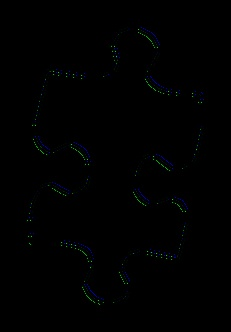
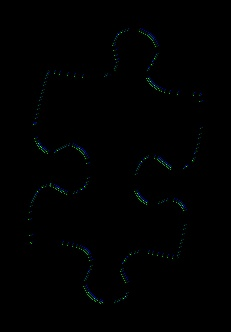
derivative

diff --git a/src/raw_image_reader.py b/src/raw_image_reader.py
@@ -1,10 +1,11 @@
 import pdb
-import cv2
-import numpy as np
-from matplotlib import pyplot as plt
 import os
 import sys
 from itertools import combinations, product
+import cv2
+import numpy as np
+from matplotlib import pyplot as plt
+from scipy import optimize
 
 sys.path.append(os.path.dirname(os.path.dirname(os.path.abspath(__file__))))
 
@@ -29,6 +30,9 @@ def save_res(func):
             if name != '': cv2.imwrite(preprocessed_dir + '%s.jpg'%name, res_img.astype('uint8'))
         return res_img
     return func_wrapper
+    
+def img_to_points(img_input):
+    return np.array(np.where(img_input > 0)).T
 
 def find_contour(img_input, name=''):
     color_min, color_max = 100, 255
@@ -61,6 +65,19 @@ def find_edge(img_input, name=''):
     img_edge = cv2.Canny(img_input, 100, 200)
     return img_edge
 
+@save_res
+def focus(img_input, name=''):
+    img_contour = find_contour(img_input)
+    cropped     = cropper(img_contour)
+    return cropped
+
+@save_res
+def edging(img_input, name=''):
+    img_contour = find_contour(img_input)
+    cropped     = cropper(img_contour)
+    edge        = find_edge(cropped)
+    return edge
+
 def morop(img_input, op, ksize, name):
     kernel = cv2.getStructuringElement(cv2.MORPH_RECT, (ksize, ksize))
     res_img = cv2.morphologyEx(img_input, op, kernel)
@@ -91,6 +108,12 @@ def kclustering_coordinate(img_input):
     # n_cluster is 12 becuase there are 16 significant turning points on a opened and closed piece
     kmeans = KMeans(n_clusters=6, random_state=0).fit(X)
     return map(lambda p: (int(p[0]), int(p[1])), kmeans.cluster_centers_)
+
+@save_res
+def connect_to_img(points, shape, name=''):
+    res_img = np.zeros(shape, dtype="uint8")  
+    cv2.drawContours(res_img, [reorder_counterClockwise(points)], -1, 255, thickness=1)
+    return res_img
 
 @save_res
 def coordinate_to_img(coordinate, shape, name=''):
@@ -158,9 +181,6 @@ def crop_first(img_input, name=''):
     kclustering(cornered, name='crop_first_kclustering')
     clustering_to_ertrame(cornered, name='crop_first_largest')
 
-def img_to_points(img_input):
-    return np.array(np.where(img_input > 0)).T
-
 def reorder_counterClockwise(points):
     return points[counterClockwiseSort(points)]
 
@@ -172,7 +192,7 @@ class Derivative(object):
 class Sobel_Derivative(Derivative):
     @classmethod
     def derivative_func(cls, img, x_order, y_order):
-        return cv2.Sobel(img,cv2.CV_64F, x_order, y_order,ksize=5)
+        return cv2.Sobel(img,cv2.CV_64F, x_order, y_order,ksize=3)
 
     @classmethod
     @save_res
@@ -204,36 +224,94 @@ class Positive_Kernel_Derivative(Derivative):
                 [[0, -3,  3],
                 [0, -10, 10],
                 [0, -3,   3]])
+    first_derivative_kernel_x = first_derivative_kernel
+    first_derivative_kernel_y = first_derivative_kernel.T
 
     second_derivative_kernel = np.array(
                 [[  0, 0,  3, -6,   3],
                 [  0, 0, 10, -20, 10],
                 [  0, 0,  3, -6,   3]])
 
-    @classmethod
     @save_res
     def derivative(cls, img_input, kernel, name=''):
         return cv2.filter2D(img_input, cv2.CV_64F, kernel)
 
-    @classmethod
     def generic_derivative(cls, img, x_order, y_order, name=''):
         assert(x_order == 0 or y_order == 0)
         if x_order == 1:
-            kernel = cls.first_derivative_kernel
+            kernel = cls.first_derivative_kernel_x
             res = cls.derivative(img, kernel, name=name)
         if x_order == 2:
-            kernel = cls.first_derivative_kernel.T
+            kernel = cls.second_derivative_kernel
             res = cls.derivative(img, kernel, name=name)
         if y_order == 1:
-            kernel = cls.second_derivative_kernel
+            kernel = cls.first_derivative_kernel_y.T
             res = cls.derivative(img, kernel, name=name)
         if y_order == 2:
             kernel = cls.second_derivative_kernel.T
             res = cls.derivative(img, kernel, name=name)
         return res
 
-def point_curvature(points):
-    pass
+class Custom_Kernel_Derivative(Positive_Kernel_Derivative):
+    def set_first_kernel(cls, kernel_):
+        cls.first_derivative_kernel = kernel_
+        cls.first_derivative_kernel_x = kernel_
+        cls.first_derivative_kernel_y = kernel_.T
+
+    def set_first_kernel_x(cls, kernel_):
+        cls.first_derivative_kernel_x = kernel_
+
+    def set_first_kernel_y(cls, kernel_):
+        cls.first_derivative_kernel_y = kernel_
+
+@save_res
+def find_top_right_corner(img_input, name=''):
+    half_h, half_w = np.array(img_input.shape) / 2
+    #picked_img = img_input[:half_h, half_w:] * 0.05
+    picked_img = img_input * 0.05
+    deriv = Custom_Kernel_Derivative()
+    kernel_x = np.array(
+        [[ 10, 7, 3, 0, 0, 0],
+         [ 10, 7, 3, 0, 0, 0],
+         [ 10, 7, 3, 0, 0, 0],
+         [ 10, 7, 3, 0, 0, 0],
+         [ 10, 7, 3, 0, 0, 0]], 
+        dtype='float64')
+    kernel_x[0, :] *= 0.2
+    kernel_x[1, :] *= 0.5
+    kernel_x[3, :] *= 0.5
+    kernel_x[4, :] *= 0.2
+    kernel_y = kernel_x[:, ::-1].T
+    deriv.set_first_kernel_x(kernel_x)
+    deriv.set_first_kernel_y(kernel_y)
+    xder = deriv.generic_derivative(picked_img, 1, 0, name=name+'_derivative_x')
+    yder = deriv.generic_derivative(picked_img, 0, 1, name=name+'_derivative_y')
+    sum_der = np.abs(xder) + np.abs(yder)
+    return sum_der
+
+@save_res
+def find_square_corner(img_input, name=''):
+    deriv = Custom_Kernel_Derivative()
+    kernel = np.array(
+        [[-3, -7, -10, 10, 7, 3],
+         [-3, -7, -10, 10, 7, 3],
+         [-3, -7, -10, 10, 7, 3],
+         [-3, -7, -10, 10, 7, 3],
+         [-3, -7, -10, 10, 7, 3]], 
+        dtype='float64')
+    kernel[0, :] *= 0.2
+    kernel[1, :] *= 0.5
+    kernel[3, :] *= 0.5
+    kernel[4, :] *= 0.2
+    deriv.set_first_kernel(kernel)
+    xder = deriv.generic_derivative(img_input, 1, 0, name=name+'_derivative_x')
+    yder = deriv.generic_derivative(img_input, 0, 1, name=name+'_derivative_y')
+    sum_der = np.abs(xder) + np.abs(yder)
+    res_img = np.zeros(img_input.shape, dtype='float64')
+    res_img[np.where(img_input > 0)] = 1.
+    res_img = res_img * sum_der
+    res_img = sum_der
+    return res_img * 0.01
 
 @save_res
 def find_curvature(img_input, name=''):
@@ -256,7 +334,7 @@ def signed_curvature(x1, x2, y1, y2, name=''):
     return color
     #return np.abs(res)
 
-class Curvature(object):
+class Derivative_Curvature(object):
     @classmethod
     def __init__(cls, derivative_type, name=''):
         cls.derivative_type = derivative_type
@@ -274,10 +352,68 @@ class Curvature(object):
         signed      = signed_curvature(xder, x2der, yder, y2der, name=cls.name+'_curvature_signed')
         return signed
 
+def find_polygon_points(img_input):
+    return cv2.approxPolyDP(img_to_points(img_input), 30, True)
+
+def find_polygon_img(img_input, name=''):
+    return connect_to_img(np.squeeze(find_polygon_points(img_input))[:, (1, 0)], 
+            img_input.shape, name=name)
+
+class Radius_Curvature(object):
+    @classmethod
+    def __init__(cls, name=''):
+        cls.name = name
+
+    @classmethod
+    def find_circle(cls, points):
+        x, y = points[0], points[1]
+
+        def calc_R(xc, yc):
+            """ calculate the distance of each 2D points from the center (xc, yc) """
+            return np.sqrt((x-xc)**2 + (y-yc)**2)
+
+        def f_2(c):
+            """ calculate the algebraic distance between the data points and 
+                the mean circle centered at c=(xc, yc) 
+            """
+            Ri = calc_R(*c)
+            return Ri - Ri.mean()
+
+        center_estimate = np.mean(x), np.mean(y)
+        center_2, ier = optimize.leastsq(f_2, center_estimate)
+        xc_2, yc_2 = center_2
+        Ri_2       = calc_R(*center_2)
+        R_2        = Ri_2.mean()
+        residu_2   = sum((Ri_2 - R_2)**2)
+        return center_2, R_2
+
+    @classmethod
+    @save_res
+    def find_curvature(cls, img_input, name=''):
+        all_points = img_to_points(img_input)
+        kSize = 3
+        res_img = np.zeros(img_input.shape)
+        tar_x, tar_y = 153, 39
+        for y, x in all_points:
+            neighbor_block = img_input[max(0, y - kSize):(y + kSize), max(0, x - kSize):(x + kSize)]
+            neighbor_points = img_to_points(neighbor_block)
+            #pdb.set_trace()
+            _, R = cls.find_circle(neighbor_points)
+            # if ((x - tar_x)**2 + (y - tar_y)**2) < 20: print x, y, R
+            # if R > 100.: print x, y, R
+            #print x, y, R
+            #res_img[y, x] = R
+            res_img[y, x] = 1. / max(R, .0001)
+            #res_img[y, x] = 1.
+        return res_img * 255.
+        #return np.log(res_img) * 255. / np.max(np.log(res_img))
+
 @save_res
 def ConvHull(img_input, name=''):
     img_contour = find_contour(img_input)
     cropped     = cropper(img_contour)
+    img = np.zeros(list(cropped.shape) + [3])
+    img[:, :, 0] = cropped
     ret, thresh = cv2.threshold(cropped, 127, 255,0)
     contours,hierarchy = cv2.findContours(thresh,2,1)
     cnt = contours[0]
@@ -299,7 +435,13 @@ def ConvHull(img_input, name=''):
 
 #openclose_first(imgray)
 #crop_first(imgray)
-Curvature(Positive_Kernel_Derivative(), 'posfirst').find_curvature(imgray)
-Curvature(Sobel_Derivative(), 'sobel').find_curvature(imgray)
-Curvature(Scharr_Derivative(), 'scharr').find_curvature(imgray)
-ConvHull(imgray)
+Derivative_Curvature(Positive_Kernel_Derivative(), 'posfirst').find_curvature(imgray)
+Derivative_Curvature(Sobel_Derivative(), 'sobel').find_curvature(imgray)
+Derivative_Curvature(Scharr_Derivative(), 'scharr').find_curvature(imgray)
+Radius_Curvature().find_curvature(edging(imgray, name='edging'), name='radius_curvature')
+find_square_corner(edging(imgray), name='square_corner')
+find_top_right_corner(edging(imgray), name='top_right')
+#find_polygon_img(edging(imgray), name='polygon')
+#find_polygon_img(rectanglize(focus(imgray)), name='rectanglized_polygon')
+#ConvHull(imgray)
+#connect_to_img(np.array([[1, 1], [18, 18], [1, 18], [18, 1]]), [20, 20], name='square')
